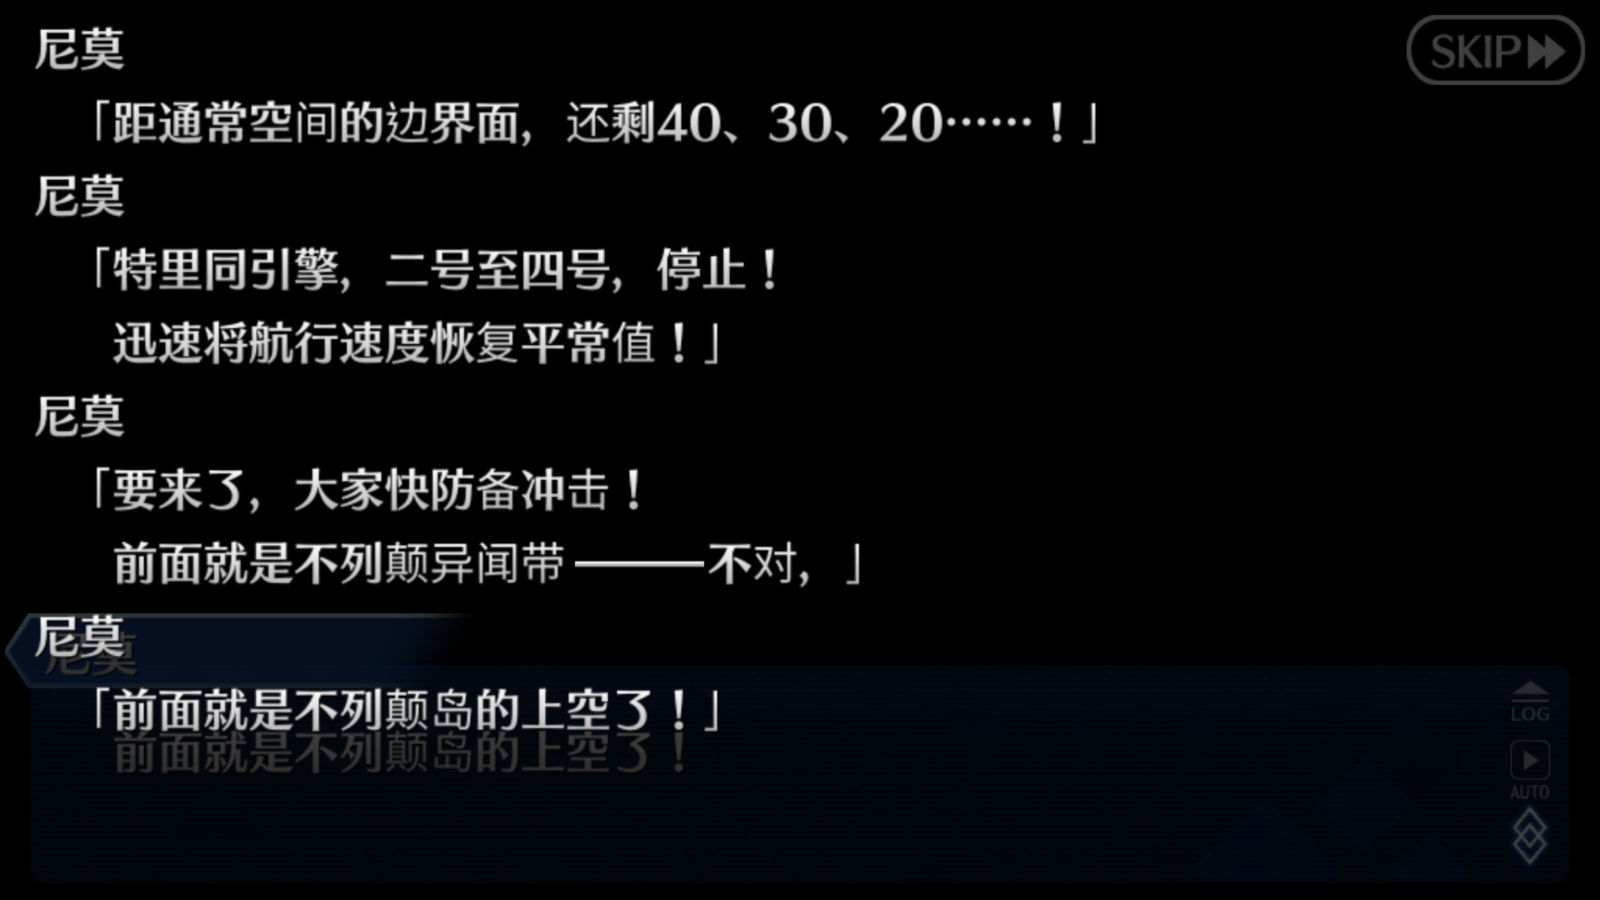
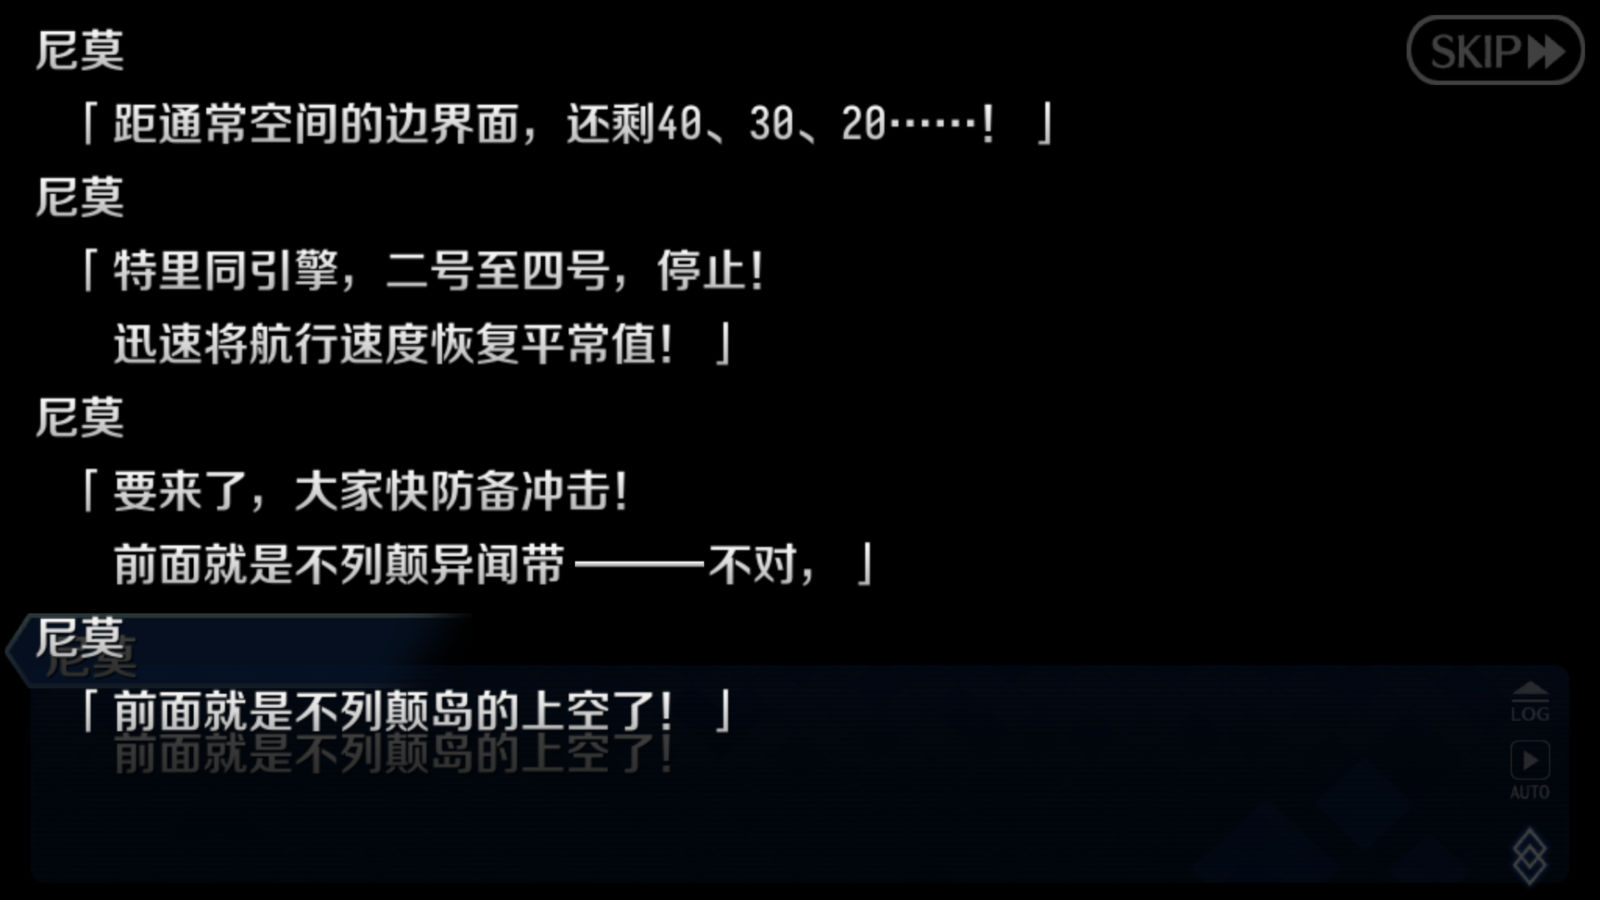
Update README.md

diff --git a/README.md b/README.md
@@ -4,8 +4,16 @@
 
 ## 更新
 - 添加中文字体，下载`Font`后扔在`Mod`文件夹内
+
 - 添加从者说明，下载`mstSvtComment.yaml`后扔在`Mod`文件夹内
-- 有小概率卡死在登录界面
+
+- 有**小**概率卡死在首次`LOADING`界面，表现为芙芙一直在跑
+
+  有**较大**概率卡死在登录后的白屏，从白屏下方有没有出现黑条可以判断出。
+
+  解决方案是删掉`Font`
+
+  或者用`v0.1`
 
 ![5.jpg](https://github.com/hexstr/FGOAssetsModifyTool/blob/module/imgs/5.jpg?raw=true)
 
@@ -26,7 +34,7 @@
 
 ![3.jpg](https://github.com/hexstr/FGOAssetsModifyTool/blob/module/imgs/3.jpg?raw=true)
 
-缺少简体字所以看起来有点奇怪
+~~缺少简体字所以看起来有点奇怪~~`v0.2`版本添加中文字体
 
 ![4.jpg](https://github.com/hexstr/FGOAssetsModifyTool/blob/module/imgs/4.jpg?raw=true)
 
